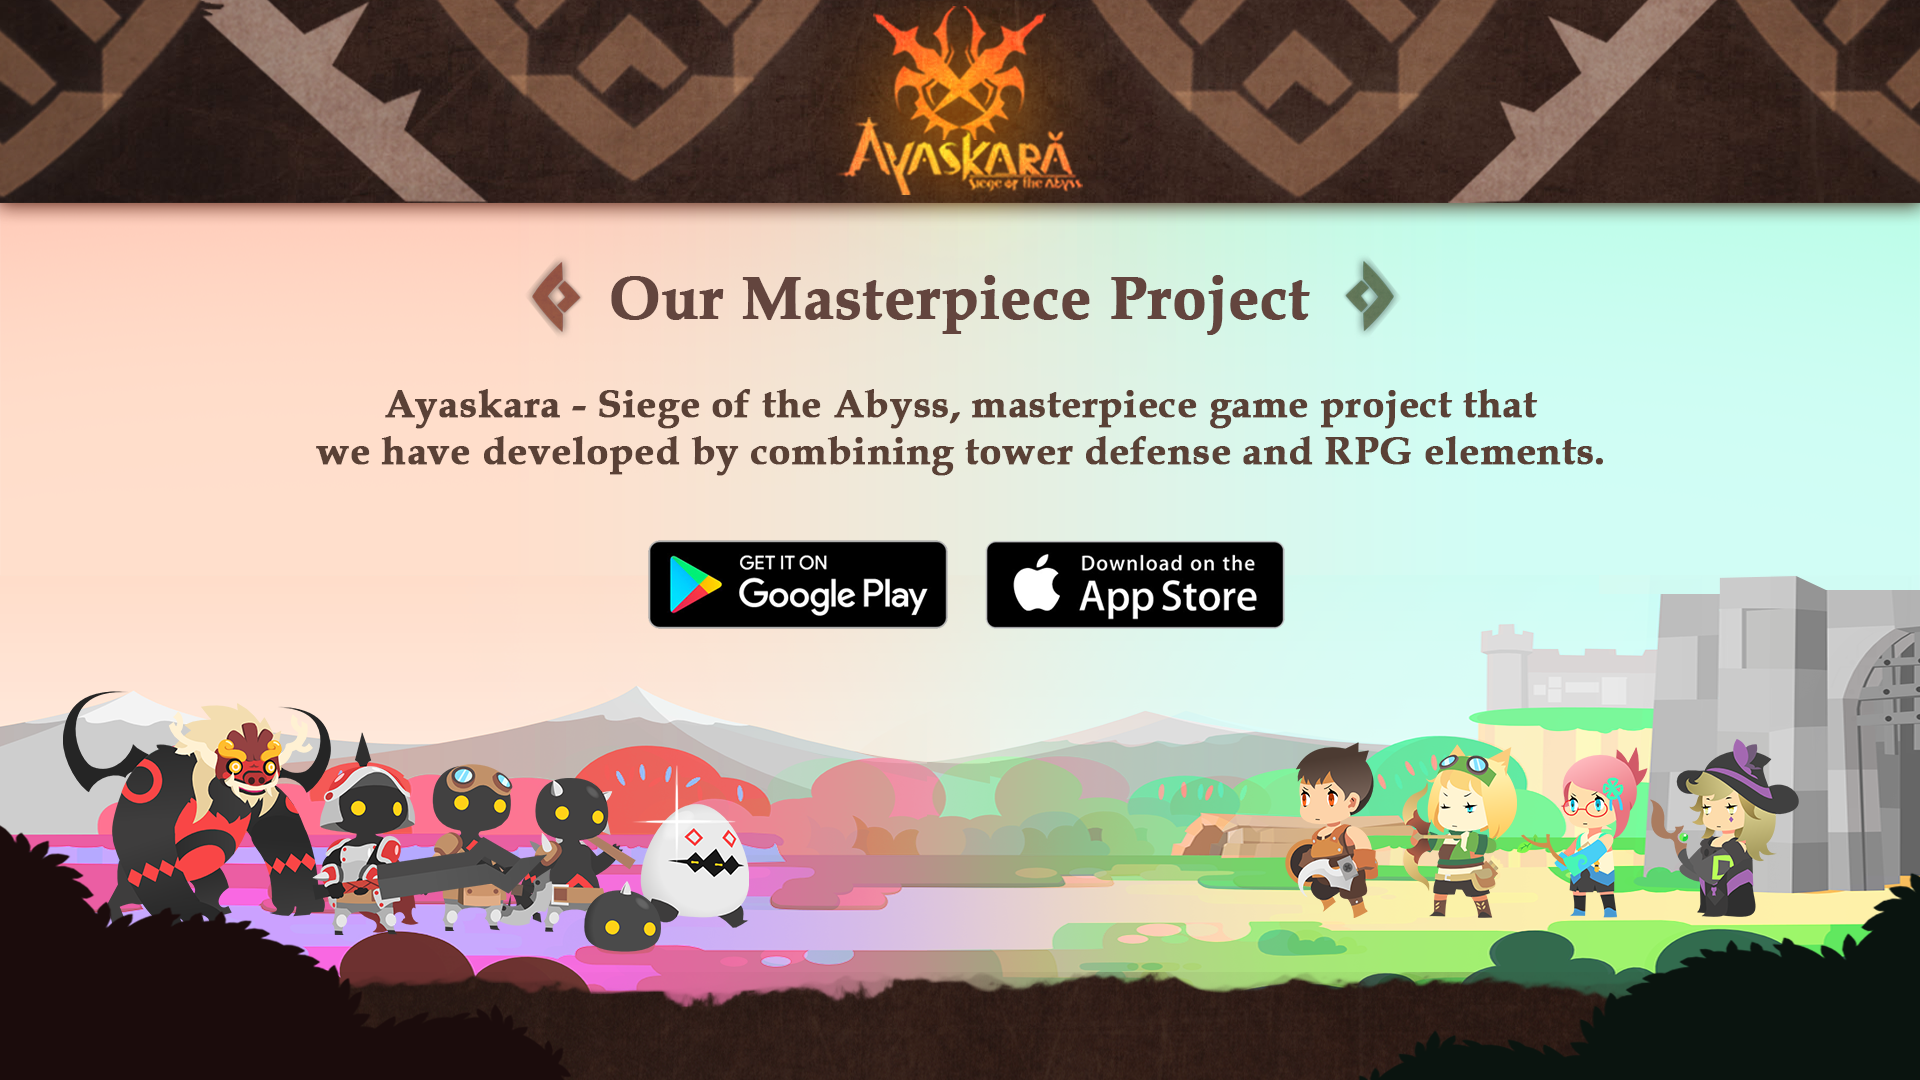
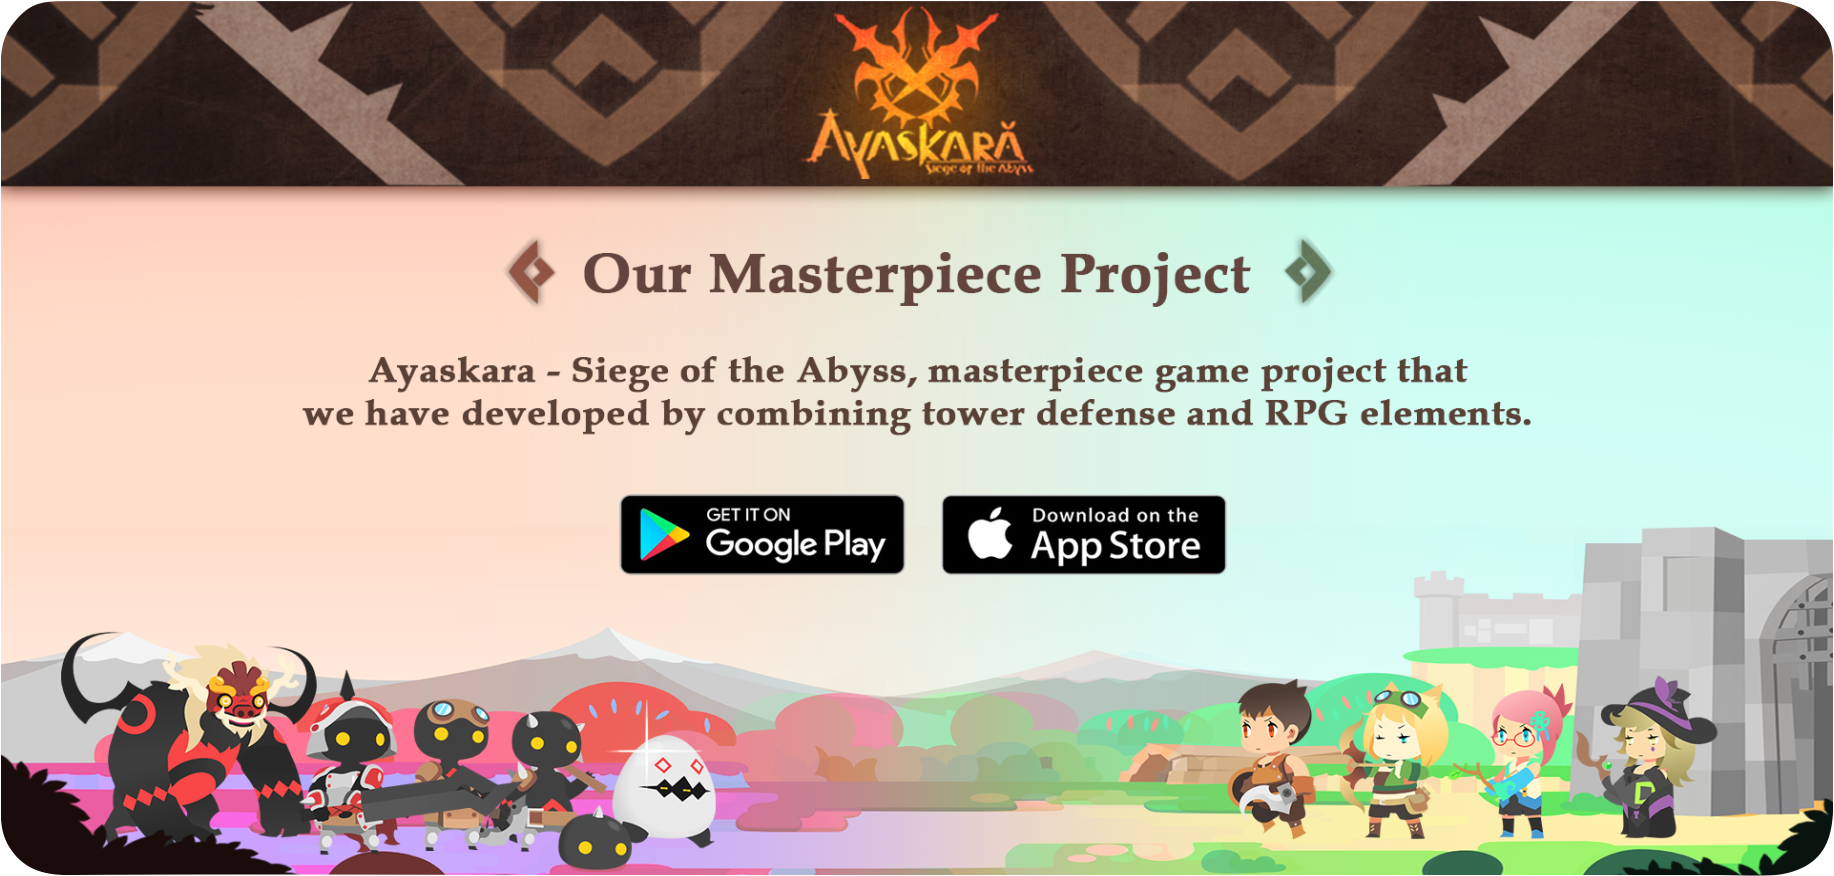
nothing maybe

diff --git a/assets/css/ayaskara.css b/assets/css/ayaskara.css
@@ -6,24 +6,24 @@ body{
 	height: 100vh;
 	background: url("../image/ayaskara/background.png") no-repeat bottom;
 	background-position: fixed;
-	background-size: 1366px auto;
+	background-size: 100% auto;
 	font-family: "Book Antiqua";
 }
 body.story{
 	background: url("../image/ayaskara/background-story.png") no-repeat;
 	background-position: 0 120px; 
-	background-size: 1366px auto;
+	background-size: 100% auto;
 }
 body.features{
 	background: url("../image/ayaskara/background-features.jpg") no-repeat top center;
 	background-position: 0 120px; 
-	background-size: 1366px 2000px;
+	background-size: 100% 2000px;
 	height: auto;
 }
 body.character{
 	background: url("../image/ayaskara/background-char.jpg") no-repeat;
 	background-position: bottom;
-	background-size: 1366px auto;
+	background-size: 100% auto;
 	height: 100vh;
 }
 .character h1.title{
@@ -306,13 +306,9 @@ h1.title{
 }
 @media screen and (min-width: 400px){
 	body{
-		max-width: 1366px !important;
-		width: 1366px !important;
 		min-width: 1366px !important;
 	}
 	.container {
-		max-width: 1140px !important;
-		width: 1140px !important;
 		min-width: 1140px !important;
 	}
 }

diff --git a/assets/css/custom.css b/assets/css/custom.css
@@ -870,7 +870,7 @@ footer .copyright a{
 
 /*slider*/
 .slider {
-    width: 60%;
+    width: 65%;
     margin: auto;
     height: auto;
     margin-top: 400px;
@@ -937,7 +937,7 @@ footer .copyright a{
 }
 .item-slide-3{
 	width: 20%;
-	bottom: 70px;
+	bottom: 40px;
 	left: 20%;
 }
 .item-slide-4{
